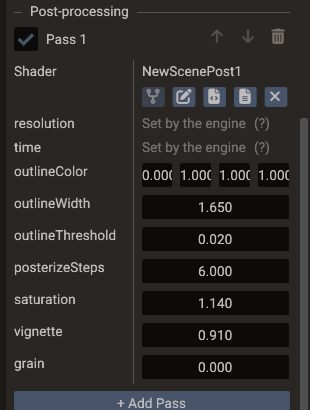
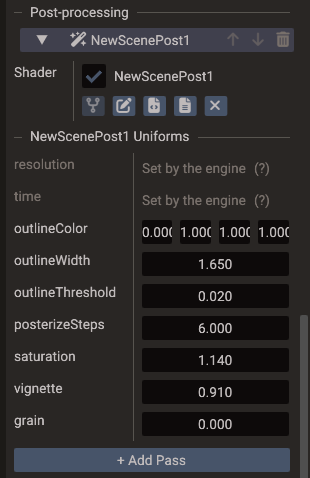
Doc scene default shader uniforms and the new uniform rows

Changed region(s): [[0.029, 0.0, 1.0, 1.0], [0.029, 0.4683, 0.3774, 0.761], [0.029, 0.7902, 0.2032, 0.9073]]

diff --git a/docs/editor/custom-shaders.md b/docs/editor/custom-shaders.md
@@ -178,8 +178,8 @@ Each row offers the same controls as the component Shader row (fork, edit files,
 The shader used by a component is resolved with this priority:
 
 1. **Component shader** — a custom shader assigned on the component always wins.
-2. **Scene default shader** — used by every component of that type whose Shader row
-   still shows **Built-in**.
+2. **Scene default shader** — used by every component of that type with no shader of its
+   own. Its Shader row shows the default's name followed by *(scene default)*.
 3. **Engine built-in** — used when neither is set.
 
 A component with no custom shader *inherits* the scene default; resetting a component's
@@ -187,12 +187,21 @@ shader returns it to the scene default (or the built-in if the scene has none). 
 single component on stock shading while a scene default is active, fork the built-in
 shader for that component and leave it unedited.
 
-Scene default shaders are saved with the scene, applied in play mode, and exported like
-any other custom shader — components that inherit them compile and ship the right shader
-variants automatically. They are also scriptable via the `Scene` properties
-`defaultMeshShader`, `defaultUIShader`, `defaultSkyShader`, `defaultPointsShader`,
+A default that declares [shader uniforms](#shader-uniforms) lists them under its row, below
+a line named after the fork (for example **toon Uniforms**). Values set there belong to the
+scene, and every component that inherits the shader reads them. A component can still set
+its own value for a member, and that value wins (see [Editing values](#editing-values)).
+The rows appear once a component renders with the fork, and they cover the members of
+every shader variant in use.
+
+Scene default shaders and their uniform values are saved with the scene, applied in play
+mode, and exported like any other custom shader — components that inherit them compile and
+ship the right shader variants automatically. They are also scriptable via the `Scene`
+properties `defaultMeshShader`, `defaultUIShader`, `defaultSkyShader`, `defaultPointsShader`,
 `defaultLinesShader`, and `defaultWaterShader` (see the
-[Scene reference](../reference/classes/scene.md)).
+[Scene reference](../reference/classes/scene.md)), and the values through
+[`setDefaultShaderUniform`](../reference/classes/scene.md#setdefaultshaderuniform), which
+takes the shader type (`ShaderType.MESH`, `ShaderType.UI`, and so on).
 
 ## Shader uniforms
 
@@ -239,12 +248,15 @@ behaves exactly as before.
 
 ### Editing values
 
-Every member becomes a row under the component's **Shader** row in the Properties window
-— save the file and the rows appear. Values are stored **on the component**, by name:
+Every member becomes a row in the Properties window, below the component's **Shader** row
+and under a line named after the fork (for example **wave Uniforms**). Save the file and
+the rows appear. Values are stored **on the component**, by name:
 
 - A Mesh keeps one set of values for all of its submeshes.
-- A component that inherits a [scene default shader](#scene-default-shaders) still has
-  its own values, so two meshes on the same default shader can be tinted differently.
+- A component that inherits a [scene default shader](#scene-default-shaders) shows the
+  scene's value for any member it has not set. Editing the row gives the component its
+  own value, which wins, so two meshes on the same default shader can still be tinted
+  differently. A row with its own value has a reset arrow that goes back to the scene's.
 - Reordering members keeps their values; renaming or deleting one drops its value. A
   member with no value reads zero — GLSL uniform blocks have no initializers.
 
@@ -260,7 +272,7 @@ scalar or vector member per value instead.
     not on the Model root.
 
 Two names are **reserved** and written by the engine every frame instead of being edited;
-they show in the rows as *Set by the engine*:
+they head the list, dimmed, as *Set by the engine*:
 
 | Name | Contents |
 | --- | --- |
@@ -275,9 +287,9 @@ a value with one of these names yourself.
 !!! warning "Do not mix int and float members"
     The OpenGL backends flatten a uniform block into a single upload typed after its
     first member, so a block holding both `int` and `float` members uploads incorrectly
-    there. Keep one block to one scalar kind. The rows show a warning when a block mixes
-    them, and when a name is declared with different types in the vertex and fragment
-    blocks (one value feeds both).
+    there. Keep one block to one scalar kind. A warning under the **Shader** row flags a
+    block that mixes them, and a name declared with different types in the vertex and
+    fragment blocks (one value feeds both).
 
 ### Setting values from scripts
 
@@ -289,7 +301,7 @@ expose:
 | Method | Meaning |
 | --- | --- |
 | `setShaderUniform(name, value)` | Sets a member. `value` is a `float`, `Vector2`, `Vector3`, or `Vector4`; the components a narrower value leaves out read zero. |
-| `getShaderUniform(name)` | The stored value as a `Vector4` (zero when unset). It reads the value list, not the block — `time` and `resolution` are not there; scripts read the same clock as `Engine.systemTime`. |
+| `getShaderUniform(name)` | The stored value as a `Vector4` (zero when unset). It reads the value list, not the block — `time` and `resolution` are not there; scripts read the same clock as `Engine.systemTime`. Values inherited from a [scene default](#scene-default-shaders) are not there either. |
 | `removeShaderUniform(name)` | Drops the value; the member reads zero again. |
 | `customShader` | The fork base path, so a script can assign or reset the fork too. |
 | `customDepthShader` | A Mesh's [depth fork](#the-depth-shader-row) base path; it reads the same values. |
@@ -352,14 +364,15 @@ section of the scene settings in the Properties window.
 | Control | Action |
 | --- | --- |
 | **Add Pass** | Appends a pass. A new pass starts on the built-in passthrough, which copies the image unchanged. |
-| Checkbox | Enables or disables the pass without removing it. |
-| **↑** / **↓** | Moves the pass in the chain. Passes run top to bottom. |
-| **🗑** | Removes the pass. |
+| Pass header | Names the pass after its shader, followed by its place in the chain when the panel is wide enough (**NewScenePost1 [Pass 1]**). Click it to fold the pass. It is dimmed while the pass is disabled. |
+| **↑** / **↓** | On the header. Moves the pass in the chain. Passes run top to bottom. |
+| **🗑** | On the header. Removes the pass. Right-clicking the header offers the same actions. |
+| Checkbox | Before the shader name in the **Shader** row. Enables or disables the pass without removing it. |
 | **Shader** row | The same controls as any other shader row — fork, pick files, open, reset, drag-and-drop. |
 
 Every change is undoable, and the chain is saved with the scene.
 
-![A post-process pass: engine-set resolution and time, then the pass's own uniforms](../assets/screenshots/properties-postprocess.png)
+![A post-process pass: its header, the Shader row, and the NewScenePost1 Uniforms section](../assets/screenshots/properties-postprocess.png)
 
 The chain runs on the scene's **active camera**, after the opaque, transparent, UI, and
 SSR passes, and before the fixed-resolution upscale. Secondary cameras — minimaps,
@@ -390,8 +403,8 @@ bound:
 
 ### Pass uniforms
 
-Declaring a `u_fs_postParams` block makes every member an editable row in the
-**Post-processing** list — no extra declaration file, and no editor change needed:
+Declaring a `u_fs_postParams` block makes every member an editable row of its pass, under
+a line named after the fork. No extra declaration file or editor change is needed:
 
 ```glsl
 uniform u_fs_postParams {
@@ -408,7 +421,7 @@ A member with no saved value is zero — GLSL uniform blocks have no initializer
 is no shader-side default to read.
 
 Two names are **reserved** and written by the engine every frame instead of being edited.
-They show in the list as *Set by the engine*:
+They head the list, dimmed, as *Set by the engine*:
 
 | Name | Contents |
 | --- | --- |

diff --git a/docs/reference/classes/scene.md b/docs/reference/classes/scene.md
@@ -143,6 +143,11 @@ A `Scene` is the root container for all objects, systems, and resources in a pro
 | void | [setFixedResolutionSize](#fixedresolutionwidth-fixedresolutionheight) | C++ \| Lua |
 | void | [setFixedResolutionFilter](#fixedresolutionfilter) | C++ \| Lua |
 | TextureFilter | [getFixedResolutionFilter](#fixedresolutionfilter) | C++ \| Lua |
+| void | [setDefaultShaderUniform](#setdefaultshaderuniform) | C++ \| Lua |
+| Vector4 | [getDefaultShaderUniform](#setdefaultshaderuniform) | C++ \| Lua |
+| bool | [removeDefaultShaderUniform](#setdefaultshaderuniform) | C++ \| Lua |
+| void | [setDefaultShaderUniforms](#setdefaultshaderuniform) | C++ |
+| const ShaderUniformValues& | [getDefaultShaderUniforms](#setdefaultshaderuniform) | C++ |
 | void | [setPostProcessPasses](#postprocesspasses) | C++ \| Lua |
 | vector&lt;PostProcessPass&gt; | [getPostProcessPasses](#postprocesspasses) | C++ \| Lua |
 | void | [setPostProcessUniform](#setpostprocessuniform) | C++ \| Lua |
@@ -186,6 +191,19 @@ PCF filter quality of shadow edges, shared by [shadowQuality](#shadowquality) (3
 * **LOW** — 3×3 taps in 3D / 5 taps in 2D (default)
 * **MEDIUM** — 5×5 taps in 3D / 9 taps in 2D
 * **HIGH** — 7×7 taps in 3D / 13 taps in 2D
+
+---
+
+### ShaderType
+
+The shader types that can have a scene default, as taken by [setDefaultShaderUniform](#setdefaultshaderuniform). The C++ enum has more values, for the engine's internal passes; Lua exposes only these.
+
+* **MESH** — Mesh components ([defaultMeshShader](#defaultmeshshader))
+* **UI** — UI components ([defaultUIShader](#defaultuishader))
+* **SKYBOX** — the Sky component ([defaultSkyShader](#defaultskyshader))
+* **POINTS** — Points components ([defaultPointsShader](#defaultpointsshader))
+* **LINES** — Lines components ([defaultLinesShader](#defaultlinesshader))
+* **WATER** — the water surface ([defaultWaterShader](#defaultwatershader))
 
 ## Property details
 
@@ -527,7 +545,7 @@ Sampling filter used when the fixed-resolution image is upscaled to the view rec
 * *Setter:* `void setDefaultMeshShader(const std::string& path)`
 * *Getter:* `const std::string& getDefaultMeshShader() const`
 
-Scene-wide custom shader for Mesh components. The value is a project-relative base path to a forked shader (for example `"shaders/myMesh"`, resolving to `.vert`/`.frag`), or `"a.vert|b.frag"` for separately named files. Every Mesh whose own custom shader is empty uses it; an empty string (default) means the engine built-in. A shader assigned on the component always takes priority. Changing the value reloads the affected meshes. See [Custom Shaders — Scene default shaders](../../editor/custom-shaders.md#scene-default-shaders).
+Scene-wide custom shader for Mesh components. The value is a project-relative base path to a forked shader (for example `"shaders/myMesh"`, resolving to `.vert`/`.frag`), or `"a.vert|b.frag"` for separately named files. Every Mesh whose own custom shader is empty uses it; an empty string (default) means the engine built-in. A shader assigned on the component always takes priority. Changing the value reloads the affected meshes. The fork's uniform values can be set for the whole scene with [setDefaultShaderUniform](#setdefaultshaderuniform). See [Custom Shaders — Scene default shaders](../../editor/custom-shaders.md#scene-default-shaders).
 
 === "C++"
 
@@ -821,6 +839,35 @@ Returns `true` if this scene is currently the topmost scene that is able to rece
 * `void updateCameraSize()`
 
 Recalculates the active camera's projection to match the current canvas size. Called automatically when the canvas changes; call manually after resizing the viewport from script.
+
+---
+
+### setDefaultShaderUniform
+
+* `void setDefaultShaderUniform(ShaderType type, const std::string& name, const Vector4& value)`
+* `void setDefaultShaderUniform(ShaderType type, const std::string& name, const Vector3& value)`
+* `void setDefaultShaderUniform(ShaderType type, const std::string& name, const Vector2& value)`
+* `void setDefaultShaderUniform(ShaderType type, const std::string& name, float value)`
+* `Vector4 getDefaultShaderUniform(ShaderType type, const std::string& name) const`
+* `bool removeDefaultShaderUniform(ShaderType type, const std::string& name)`
+* `void setDefaultShaderUniforms(ShaderType type, const ShaderUniformValues& values)` (C++ only)
+* `const ShaderUniformValues& getDefaultShaderUniforms(ShaderType type) const` (C++ only)
+
+Scene values for the custom blocks (`u_vs_customParams` / `u_fs_customParams`) of the scene default shader of `type` (see [ShaderType](#shadertype)), by member name. Every component that inherits that default reads them for the members it does not set itself; a value set on the component with [setShaderUniform](mesh.md#setshaderuniform) wins. Setting a value only rewrites the uploaded blocks, so it can run every frame. A narrower value leaves the remaining components at zero, and a member with no value on either side reads zero. A type without a scene default is ignored, and a reserved name (`time`, `resolution`) logs an error. `getDefaultShaderUniform` returns the scene's stored value, zero when unset; `removeDefaultShaderUniform` drops it and returns whether it existed. The values stay when the default shader changes, so a fork with the same member names picks them up. See [Custom Shaders — Scene default shaders](../../editor/custom-shaders.md#scene-default-shaders).
+
+=== "C++"
+
+    ```cpp
+    scene.setDefaultShaderUniform(ShaderType::MESH, "exposure", 0.5f);
+    scene.setDefaultShaderUniform(ShaderType::MESH, "rimColor", Vector4(0.2f, 0.6f, 1.0f, 1.0f));
+    ```
+
+=== "Lua"
+
+    ```lua
+    scene:setDefaultShaderUniform(ShaderType.MESH, "exposure", 0.5)
+    scene:setDefaultShaderUniform(ShaderType.MESH, "rimColor", Vector4(0.2, 0.6, 1, 1))
+    ```
 
 ---
 

diff --git a/docs/editor/properties.md b/docs/editor/properties.md
@@ -270,17 +270,22 @@ has an **Underwater Shader** row instead, for the fade seen from below the surfa
 [Custom Shaders — Water shaders](custom-shaders.md#water-shaders).
 
 A fork that declares a `u_vs_customParams` or `u_fs_customParams` block gets one editable
-row per member right under the Shader row (`time` and `resolution` are written by the engine); the values are
-saved on the component, shared with the depth fork, and also scriptable through
-`setShaderUniform` — see [Custom Shaders — Shader uniforms](custom-shaders.md#shader-uniforms).
+row per member below the Shader row, under a line named after the fork (`time` and
+`resolution` come first, written by the engine); the values are saved on the component,
+shared with the depth fork, and also scriptable through `setShaderUniform` — see
+[Custom Shaders — Shader uniforms](custom-shaders.md#shader-uniforms).
 
 A scene can also define a **default custom shader per type** (in the scene settings'
-**Default Shaders** section); components whose Shader row shows **Built-in** inherit it.
-A shader assigned on the component always takes priority over the scene default.
+**Default Shaders** section). Components with no shader of their own inherit it, and their
+Shader row shows its name followed by *(scene default)*. A shader assigned on the component
+always takes priority over the scene default. When the default declares uniforms, the
+section has rows for them too: those values belong to the scene, and an inheriting
+component reads them for every member it does not set itself.
 
 The scene settings also have a **Post-processing** section: an ordered list of fullscreen
-passes, each one a forked shader with its own enable checkbox, reorder and remove buttons.
-Any value the pass declares in its `u_fs_postParams` block becomes an editable row here.
+passes, each one a forked shader under a collapsible header with reorder and remove
+buttons, and an enable checkbox in its Shader row. Any value the pass declares in its
+`u_fs_postParams` block becomes an editable row here.
 
 See [Custom Shaders](custom-shaders.md) for the full workflow, scene defaults, post-process
 passes, includes, and project settings.

diff --git a/docs/reference/classes/image.md b/docs/reference/classes/image.md
@@ -177,7 +177,7 @@ Project-relative base path of a forked shader (`"shaders/glow"` resolves to `sha
 * `Vector4 getShaderUniform(const std::string& name) const`
 * `bool removeShaderUniform(const std::string& name)`
 
-Values for the members of the custom shader's `u_vs_customParams` / `u_fs_customParams` blocks, by member name. Setting a value only rewrites the uploaded block, so it can run every frame; a member with no value reads zero, and `time` (seconds since startup) and `resolution` (render target size) are reserved for the engine. Same semantics as [Mesh.setShaderUniform](mesh.md#setshaderuniform); see [Custom Shaders — Shader uniforms](../../editor/custom-shaders.md#shader-uniforms).
+Values for the members of the custom shader's `u_vs_customParams` / `u_fs_customParams` blocks, by member name. Setting a value only rewrites the uploaded block, so it can run every frame; a member with no value reads zero, or the scene's value under a [scene default shader](scene.md#setdefaultshaderuniform), and `time` (seconds since startup) and `resolution` (render target size) are reserved for the engine. Same semantics as [Mesh.setShaderUniform](mesh.md#setshaderuniform); see [Custom Shaders — Shader uniforms](../../editor/custom-shaders.md#shader-uniforms).
 
 === "C++"
 

diff --git a/docs/reference/classes/lines.md b/docs/reference/classes/lines.md
@@ -157,7 +157,7 @@ Project-relative base path of a forked shader (`"shaders/laser"` resolves to `sh
 * `Vector4 getShaderUniform(const std::string& name) const`
 * `bool removeShaderUniform(const std::string& name)`
 
-Values for the members of the custom shader's `u_vs_customParams` / `u_fs_customParams` blocks, by member name. Setting a value only rewrites the uploaded block, so it can run every frame; a member with no value reads zero, and `time` (seconds since startup) and `resolution` (render target size) are reserved for the engine. Same semantics as [Mesh.setShaderUniform](mesh.md#setshaderuniform); see [Custom Shaders — Shader uniforms](../../editor/custom-shaders.md#shader-uniforms).
+Values for the members of the custom shader's `u_vs_customParams` / `u_fs_customParams` blocks, by member name. Setting a value only rewrites the uploaded block, so it can run every frame; a member with no value reads zero, or the scene's value under a [scene default shader](scene.md#setdefaultshaderuniform), and `time` (seconds since startup) and `resolution` (render target size) are reserved for the engine. Same semantics as [Mesh.setShaderUniform](mesh.md#setshaderuniform); see [Custom Shaders — Shader uniforms](../../editor/custom-shaders.md#shader-uniforms).
 
 === "C++"
 

diff --git a/docs/reference/classes/points.md b/docs/reference/classes/points.md
@@ -216,7 +216,7 @@ Project-relative base path of a forked shader (`"shaders/sparks"` resolves to `s
 * `Vector4 getShaderUniform(const std::string& name) const`
 * `bool removeShaderUniform(const std::string& name)`
 
-Values for the members of the custom shader's `u_vs_customParams` / `u_fs_customParams` blocks, by member name. Setting a value only rewrites the uploaded block, so it can run every frame; a member with no value reads zero, and `time` (seconds since startup) and `resolution` (render target size) are reserved for the engine. Same semantics as [Mesh.setShaderUniform](mesh.md#setshaderuniform); see [Custom Shaders — Shader uniforms](../../editor/custom-shaders.md#shader-uniforms).
+Values for the members of the custom shader's `u_vs_customParams` / `u_fs_customParams` blocks, by member name. Setting a value only rewrites the uploaded block, so it can run every frame; a member with no value reads zero, or the scene's value under a [scene default shader](scene.md#setdefaultshaderuniform), and `time` (seconds since startup) and `resolution` (render target size) are reserved for the engine. Same semantics as [Mesh.setShaderUniform](mesh.md#setshaderuniform); see [Custom Shaders — Shader uniforms](../../editor/custom-shaders.md#shader-uniforms).
 
 === "C++"
 

diff --git a/docs/reference/classes/skybox.md b/docs/reference/classes/skybox.md
@@ -104,7 +104,7 @@ Project-relative base path of a forked shader (`"shaders/dayNight"` resolves to 
 * `Vector4 getShaderUniform(const std::string& name) const`
 * `bool removeShaderUniform(const std::string& name)`
 
-Values for the members of the custom shader's `u_vs_customParams` / `u_fs_customParams` blocks, by member name. Setting a value only rewrites the uploaded block, so it can run every frame; a member with no value reads zero, and `time` (seconds since startup) and `resolution` (render target size) are reserved for the engine. Same semantics as [Mesh.setShaderUniform](mesh.md#setshaderuniform); see [Custom Shaders — Shader uniforms](../../editor/custom-shaders.md#shader-uniforms).
+Values for the members of the custom shader's `u_vs_customParams` / `u_fs_customParams` blocks, by member name. Setting a value only rewrites the uploaded block, so it can run every frame; a member with no value reads zero, or the scene's value under a [scene default shader](scene.md#setdefaultshaderuniform), and `time` (seconds since startup) and `resolution` (render target size) are reserved for the engine. Same semantics as [Mesh.setShaderUniform](mesh.md#setshaderuniform); see [Custom Shaders — Shader uniforms](../../editor/custom-shaders.md#shader-uniforms).
 
 === "C++"
 

diff --git a/docs/reference/classes/text.md b/docs/reference/classes/text.md
@@ -286,7 +286,7 @@ Project-relative base path of a forked shader (`"shaders/outline"` resolves to `
 * `Vector4 getShaderUniform(const std::string& name) const`
 * `bool removeShaderUniform(const std::string& name)`
 
-Values for the members of the custom shader's `u_vs_customParams` / `u_fs_customParams` blocks, by member name. Setting a value only rewrites the uploaded block, so it can run every frame; a member with no value reads zero, and `time` (seconds since startup) and `resolution` (render target size) are reserved for the engine. Same semantics as [Mesh.setShaderUniform](mesh.md#setshaderuniform); see [Custom Shaders — Shader uniforms](../../editor/custom-shaders.md#shader-uniforms).
+Values for the members of the custom shader's `u_vs_customParams` / `u_fs_customParams` blocks, by member name. Setting a value only rewrites the uploaded block, so it can run every frame; a member with no value reads zero, or the scene's value under a [scene default shader](scene.md#setdefaultshaderuniform), and `time` (seconds since startup) and `resolution` (render target size) are reserved for the engine. Same semantics as [Mesh.setShaderUniform](mesh.md#setshaderuniform); see [Custom Shaders — Shader uniforms](../../editor/custom-shaders.md#shader-uniforms).
 
 === "C++"
 

diff --git a/docs/reference/classes/polygon.md b/docs/reference/classes/polygon.md
@@ -53,7 +53,7 @@ Project-relative base path of a forked shader (`"shaders/glow"` resolves to `sha
 * `Vector4 getShaderUniform(const std::string& name) const`
 * `bool removeShaderUniform(const std::string& name)`
 
-Values for the members of the custom shader's `u_vs_customParams` / `u_fs_customParams` blocks, by member name. Setting a value only rewrites the uploaded block, so it can run every frame; a member with no value reads zero, and `time` (seconds since startup) and `resolution` (render target size) are reserved for the engine. Same semantics as [Mesh.setShaderUniform](mesh.md#setshaderuniform); see [Custom Shaders — Shader uniforms](../../editor/custom-shaders.md#shader-uniforms).
+Values for the members of the custom shader's `u_vs_customParams` / `u_fs_customParams` blocks, by member name. Setting a value only rewrites the uploaded block, so it can run every frame; a member with no value reads zero, or the scene's value under a [scene default shader](scene.md#setdefaultshaderuniform), and `time` (seconds since startup) and `resolution` (render target size) are reserved for the engine. Same semantics as [Mesh.setShaderUniform](mesh.md#setshaderuniform); see [Custom Shaders — Shader uniforms](../../editor/custom-shaders.md#shader-uniforms).
 
 === "C++"
 

diff --git a/docs/reference/classes/mesh.md b/docs/reference/classes/mesh.md
@@ -541,10 +541,11 @@ A value is stored on the mesh and applied to every submesh — of the colour for
 [depth fork](#customdepthshader) alike; a narrower value leaves the
 remaining components at zero, and an `int` member takes the truncated value. Setting a
 value only rewrites the uploaded block, so it can be called every frame. Names the shader
-does not declare are kept but unused, and a member with no value reads zero.
+does not declare are kept but unused, and a member with no value reads zero, or the
+scene's value while the mesh inherits a [scene default shader](scene.md#setdefaultshaderuniform).
 
-`getShaderUniform` returns the stored value (zero when unset) — the value list, not the
-uploaded block, so an `int` member set to `3.7` reads back `3.7` while the shader sees `3`,
+`getShaderUniform` returns the stored value (zero when unset) — the mesh's own value list, not the
+uploaded block or the scene's values, so an `int` member set to `3.7` reads back `3.7` while the shader sees `3`,
 and the engine-written names are not in it. `removeShaderUniform` drops a value and returns
 whether it existed; the member reads zero again. Matrix and array members take no value.
 

diff --git a/docs/reference/enums.md b/docs/reference/enums.md
@@ -32,6 +32,7 @@ types. C++-only enums are noted below. See [Engine](classes/engine.md) for `Scal
 | `ReflectionProbeUpdateMode` | Dynamic probe capture policy (`ON_LOAD`, `ON_MOVE`, `INTERVAL`, `MANUAL`) |
 | `WaterExclusionShape` | Volume keeping water out (`BOX`, `SPHERE`, `HULL`) |
 | `LightState` / `UIEventState` | Scene flags |
+| `ShaderType` | Scene default shader types for [Scene.setDefaultShaderUniform](classes/scene.md#setdefaultshaderuniform) (`MESH`, `UI`, `SKYBOX`, `POINTS`, `LINES`, `WATER`) |
 | `PrimitiveType` / `CullingMode` / `WindingOrder` | Rendering |
 | `MaterialAlphaMode` | Material alpha handling (`AUTO`, `ALPHA_OPAQUE`, `MASK`, `BLEND`) |
 | `TextureFilter` / `TextureWrap` / `TextureType` | Textures |
